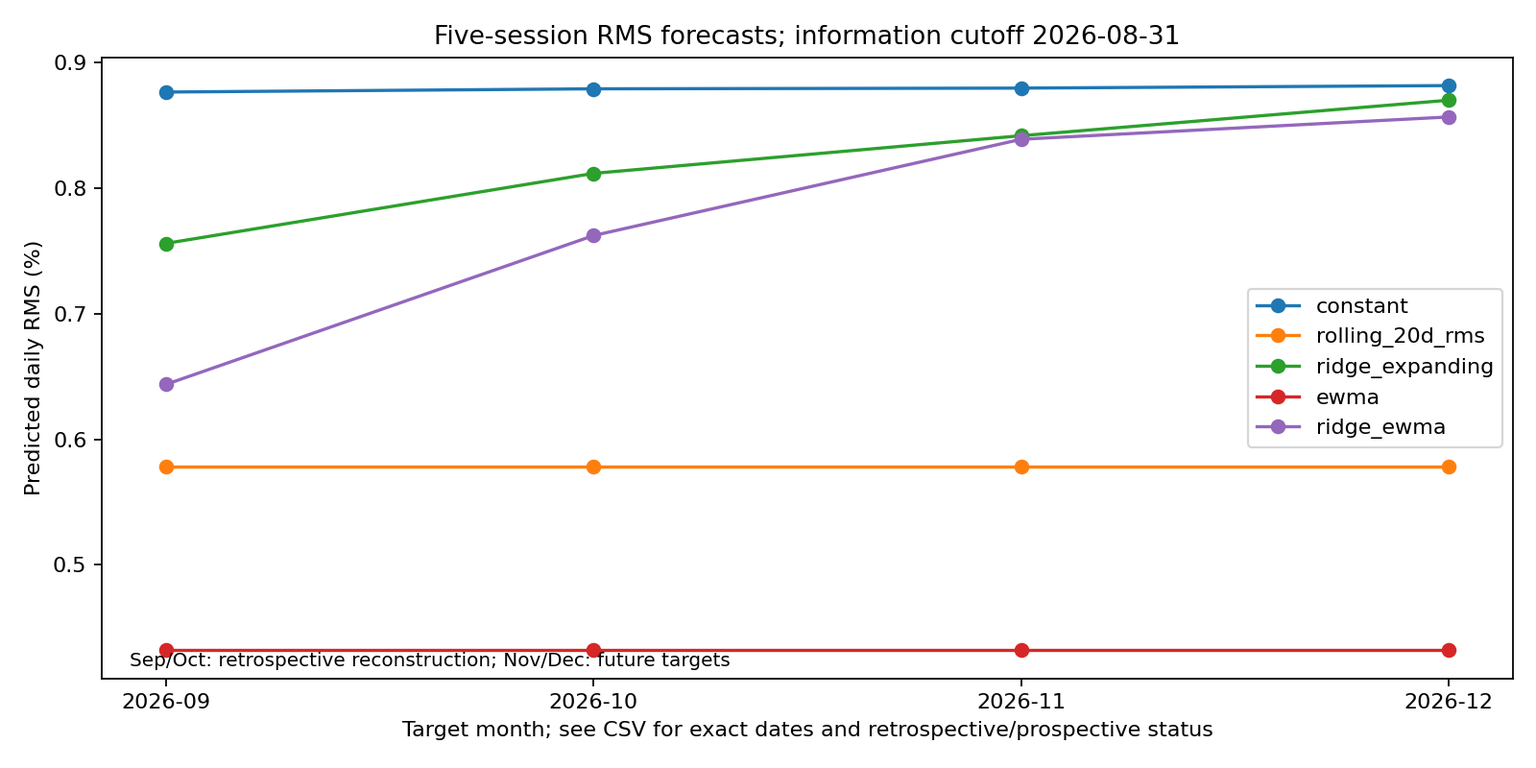
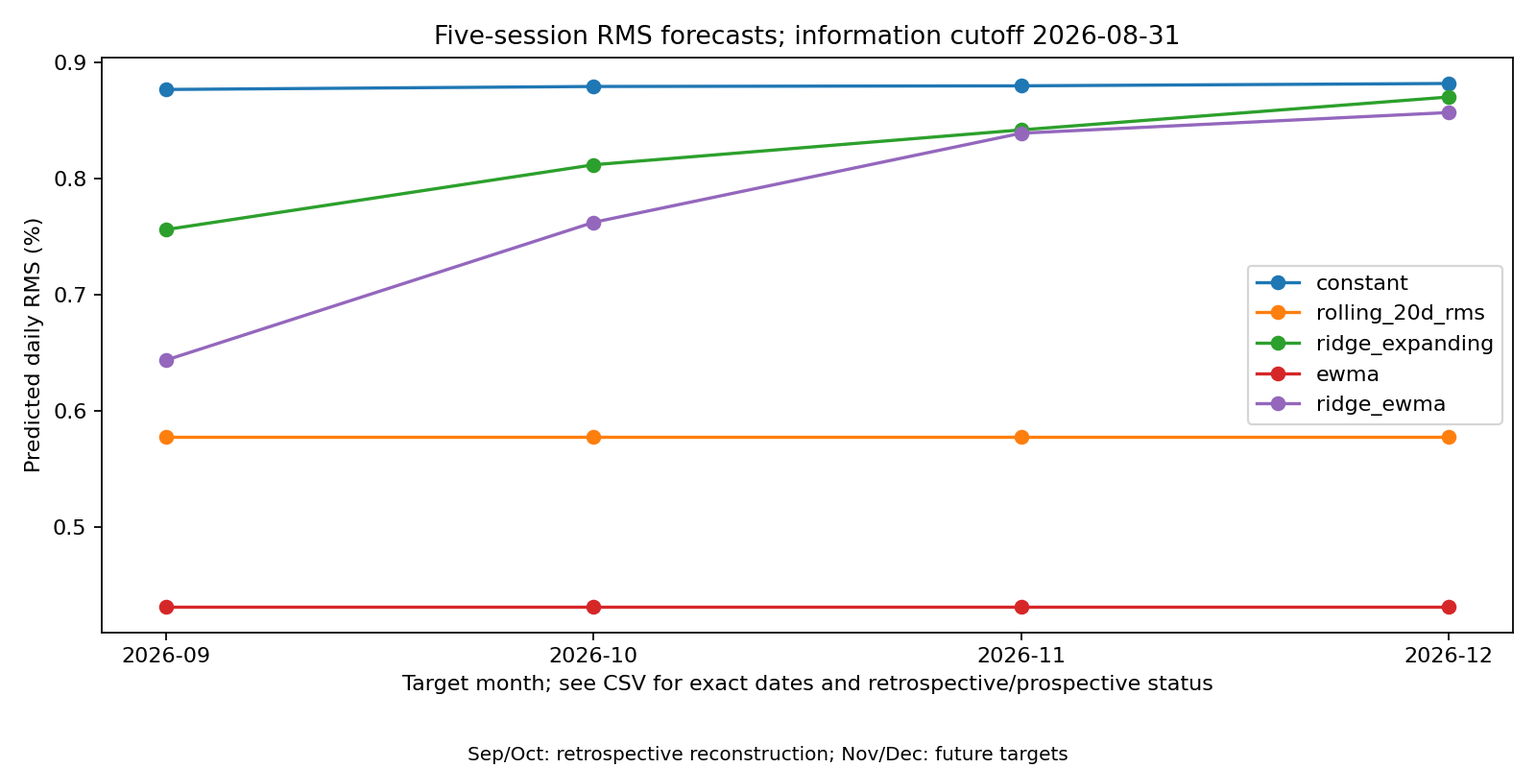
Documented the frozen EWMA results and reviewer-visible comparisons

diff --git a/src/summarize_ewma_freezes.py b/src/summarize_ewma_freezes.py
@@ -1,0 +1,65 @@
+"""Compare two saved cutoffs and score already-known windows retrospectively."""
+import argparse,json
+from pathlib import Path
+import numpy as np,pandas as pd
+import matplotlib
+matplotlib.use('Agg')
+import matplotlib.pyplot as plt
+from src.validate_cutoff import sha256_file
+
+METHODS=['constant','rolling_20d_rms','ridge_expanding','ewma','ridge_ewma']
+
+def summarize(august,october,prices_path,output):
+    if output.exists():raise FileExistsError('Choose a new summary directory.')
+    for folder in [august,october]:
+        manifest=json.loads((folder/'manifest.json').read_text())
+        for name,digest in manifest['output_sha256'].items():
+            if sha256_file(folder/name)!=digest:raise ValueError('Frozen output hash mismatch.')
+    prices=pd.read_csv(prices_path,parse_dates=['Date']).set_index('Date')
+    oct_manifest=json.loads((october/'manifest.json').read_text())
+    if sha256_file(prices_path)!=oct_manifest['input_sha256']:raise ValueError('Use the exact October snapshot.')
+    returns=np.log(prices.SPY/prices.SPY.shift(1)).dropna()
+    a=pd.read_csv(august/'forecasts.csv');o=pd.read_csv(october/'forecasts.csv')
+    rows=[]
+    for month,b in a.groupby('target_month'):
+        start,end=pd.Timestamp(b.target_start.iloc[0]),pd.Timestamp(b.target_end.iloc[0])
+        if end>returns.index[-1]:continue
+        window=returns.loc[start:end]
+        if len(window)!=5:raise ValueError('Incomplete observed target.')
+        actual=float(np.sqrt(np.mean(window**2)))
+        for row in b.itertuples():
+            rows.append({'target_month':month,'target_start':str(start.date()),'target_end':str(end.date()),
+                'method':row.method,'forecast_decimal':row.forecast_decimal,'actual_decimal':actual,
+                'error':row.forecast_decimal-actual,'absolute_error':abs(row.forecast_decimal-actual),
+                'status':'Retrospective: computed after outcomes were known; reconstructed input'})
+    known=pd.DataFrame(rows);output.mkdir(parents=True)
+    known.to_csv(output/'august_known_outcomes.csv',index=False,float_format='%.17g')
+    combined=pd.concat([a.assign(cutoff_label='August 31 reconstructed'),o.assign(cutoff_label='October 7')])
+    combined.to_csv(output/'cutoff_comparison.csv',index=False,float_format='%.17g')
+    fig,axes=plt.subplots(1,2,figsize=(13,5),sharey=True)
+    width=.15;x=np.arange(2)
+    for ax,month in zip(axes,['2026-11','2026-12']):
+        for i,method in enumerate(METHODS):
+            b=combined.loc[(combined.target_month==month)&(combined.method==method)]
+            ax.bar(x+(i-2)*width,100*b.forecast_decimal,width,label=method)
+        ax.set(xticks=x,xticklabels=['Aug 31 reconstructed','Oct 7 update'],title=month+' first five sessions',ylabel='Predicted daily RMS (%)')
+    handles,labels=axes[0].get_legend_handles_labels()
+    fig.legend(handles,labels,loc='lower center',ncol=5,fontsize=9)
+    fig.suptitle('Prospective November/December forecasts — same target, different information cutoffs')
+    fig.tight_layout(rect=(0,.07,1,1));fig.savefig(output/'future_cutoff_comparison.png',dpi=160);plt.close(fig)
+    fig,axes=plt.subplots(1,2,figsize=(12,5),sharey=True)
+    for ax,(month,b) in zip(axes,known.groupby('target_month')):
+        ax.bar(b.method,100*b.forecast_decimal)
+        ax.axhline(100*b.actual_decimal.iloc[0],color='black',linestyle='--',label='Observed five-session RMS')
+        ax.set(title=month,ylabel='Daily RMS (%)');ax.tick_params(axis='x',labelrotation=22);ax.legend(fontsize=8)
+    fig.suptitle('Retrospective August-cutoff reconstruction — September/October outcomes were already known')
+    fig.tight_layout();fig.savefig(output/'retrospective_known_outcomes.png',dpi=160);plt.close(fig)
+    (output/'manifest.json').write_text(json.dumps({'input_price_sha256':sha256_file(prices_path),
+        'august_manifest_sha256':sha256_file(august/'manifest.json'),'october_manifest_sha256':sha256_file(october/'manifest.json'),
+        'source_sha256':sha256_file(Path(__file__)),'output_sha256':{p.name:sha256_file(p) for p in output.iterdir()}},indent=2)+'\n')
+    print(known.to_string(index=False))
+
+if __name__=='__main__':
+    p=argparse.ArgumentParser(description=__doc__)
+    for name in ['august','october','prices','output']:p.add_argument('--'+name,type=Path,required=True)
+    a=p.parse_args();summarize(a.august,a.october,a.prices,a.output)

diff --git a/src/plot_ewma_experiment.py b/src/plot_ewma_experiment.py
@@ -28,8 +28,8 @@ def plot(folder):
         ax.plot(b.target_month,100*b.forecast_decimal,marker='o',label=method)
     ax.set(title=f"Five-session RMS forecasts; information cutoff {forecasts.information_cutoff.iloc[0]}",ylabel='Predicted daily RMS (%)',xlabel='Target month; see CSV for exact dates and retrospective/prospective status')
     if (forecasts.target_month<'2026-11').any():
-        ax.text(.02,.02,'Sep/Oct: retrospective reconstruction; Nov/Dec: future targets',transform=ax.transAxes,fontsize=9)
-    ax.legend();fig.tight_layout();fig.savefig(figures/'forecasts.png',dpi=160);plt.close(fig)
+        fig.text(.5,.01,'Sep/Oct: retrospective reconstruction; Nov/Dec: future targets',ha='center',fontsize=9)
+    ax.legend();fig.tight_layout(rect=(0,.06,1,1));fig.savefig(figures/'forecasts.png',dpi=160);plt.close(fig)
 
 if __name__=='__main__':
     parser=argparse.ArgumentParser(description=__doc__);parser.add_argument('folder',type=Path)

diff --git a/docs/ewma_freeze_2026-10-08.md b/docs/ewma_freeze_2026-10-08.md
@@ -1,0 +1,91 @@
+# My EWMA forecasts frozen on 8 October 2026
+
+I recovered access to Yahoo Finance and downloaded the complete adjusted-close history for all eight ETFs. I have now calculated the two EWMA experiments. I chose EWMA because it uses the return data already required by my RMS work. These results do not establish that EWMA is generally better.
+
+## What I froze
+
+| Item | August experiment | October update |
+|---|---|---|
+| Information cutoff | 31 August 2026 | 7 October 2026 |
+| Price history | 2,932 sessions from 2 January 2015 | 2,958 sessions from 2 January 2015 |
+| Dataset vintage | Downloaded 8 October; reconstructed | Downloaded 8 October |
+| Missing observations | None against XNYS session calendar | None against XNYS session calendar |
+| Standalone EWMA decay | 0.80 | 0.80 |
+| Ridge EWMA-feature decay | 0.90 | 0.90 |
+| Prospective targets | November 2–6; December 1–7 | November 2–6; December 1–7 |
+| Lead gaps before first target return | 43 and 63 sessions | 17 and 37 sessions |
+
+The August input hash differs from my original snapshot hash. I therefore call this an **August reconstruction**, not an exact recovery of the original dataset. A hash mismatch alone does not identify which prices, if any, changed. My original v0.1 forecast archive and its October evaluation are unchanged. Current adjusted-price history can contain later distribution adjustments or provider revisions, so historical validation is also subject to data-vintage limitations.
+
+All new EWMA calculations use Yahoo's adjusted-close field consistently. The earlier October baseline evaluation used Stock Analysis. I do not join that six-price snapshot onto the Yahoo history. Source fields, retrieval times, raw responses, session calendar and hashes are preserved in [the input snapshot](../data/raw/yahoo_2026-10-08/README.md).
+
+## Predictions
+
+These are predictions of **daily RMS across five log returns**, expressed as percentages. They are neither annualized volatility nor five-day cumulative return predictions.
+
+| Cutoff | Model | November 2–6 RMS | December 1–7 RMS |
+|---|---|---:|---:|
+| August 31 reconstructed | Constant | 0.8797% | 0.8817% |
+| August 31 reconstructed | Rolling 20-session RMS | 0.5780% | 0.5780% |
+| August 31 reconstructed | Original-feature Ridge | 0.8418% | 0.8701% |
+| August 31 reconstructed | Standalone EWMA | 0.4319% | 0.4319% |
+| August 31 reconstructed | Ridge + EWMA | 0.8389% | 0.8567% |
+| October 7 | Constant | 0.8766% | 0.8767% |
+| October 7 | Rolling 20-session RMS | 0.6398% | 0.6398% |
+| October 7 | Original-feature Ridge | 0.7879% | 0.8325% |
+| October 7 | Standalone EWMA | 0.5287% | 0.5287% |
+| October 7 | Ridge + EWMA | 0.7430% | 0.8169% |
+
+![Future forecasts at two information cutoffs](../results/ewma_2026-10-08/future_cutoff_comparison.png)
+
+Standalone EWMA forecasts are equal across months because I persist the cutoff second moment. The augmented Ridge forecasts differ because each target uses a separate gap-specific fit. Different values from different information cutoffs do not prove that one model improved.
+
+The complete numerical records, model coefficients and manifests are in [the August archive](../forecasts/2026-10-08-ewma-august-reconstructed/forecasts.csv) and [the October archive](../forecasts/2026-10-08-ewma-october/forecasts.csv). They were created today and published today, before the October 30 and November 30 anchoring closes. September and October calculations from the reconstructed August cutoff are retrospective; I do not backdate them as prospective forecasts.
+
+## Observations through October 7
+
+![Observed signals through October 7](../forecasts/2026-10-08-ewma-october/figures/signals.png)
+
+This graph plots signals computed from observations already available. The dashed August cutoff distinguishes the later observed extension. These are signal states, not a record of daily forecasts published in advance.
+
+![Retrospective reconstructed predictions and known outcomes](../results/ewma_2026-10-08/retrospective_known_outcomes.png)
+
+Using this Yahoo snapshot, September's first five-return RMS was approximately 0.6646%, and October's was 0.5263%. The augmented Ridge reconstruction was closest in September; rolling RMS was closest in October. These outcomes were known before this EWMA reconstruction was made. They are descriptive comparisons, not prospective evidence for the new EWMA model. Their exact values and errors are in [the retrospective score table](../results/ewma_2026-10-08/august_known_outcomes.csv).
+
+## Earlier validation and historical assessment
+
+I selected each decay using MAE on 24 five-session windows ending in 2021–2022, with expanding training using only labels completed at each origin. The selected standalone candidate had validation MAE 0.3104 percentage points; augmented Ridge had 0.2652 percentage points. September and October 2026 outcomes did not select the decay.
+
+For the separate development-aware historical assessment, all methods used the same 44 target windows ending January 2023–August 2026:
+
+| Model | MAE, percentage points | RMSE, percentage points |
+|---|---:|---:|
+| Constant | 0.3392 | 0.5255 |
+| Rolling 20-session RMS | 0.3578 | 0.6021 |
+| Original-feature Ridge | 0.3239 | 0.5279 |
+| Standalone EWMA | 0.3111 | 0.4964 |
+| Ridge + EWMA | 0.2979 | 0.4947 |
+
+![Matched historical MAE](../forecasts/2026-10-08-ewma-october/figures/historical_mae.png)
+
+Augmented Ridge had the smallest error in this historical assessment. I do not present that as an untouched test, statistical significance or a guarantee of future performance. The project had already studied this historical period. Decays selected at gap zero are transferred to the longer future lead times; those lead-time choices still need prospective evaluation.
+
+## Reproduction, mathematics and verification
+
+My [experiment protocol](ewma_experiment.md) gives the recurrence, explicit 20-return seed, targets, completed-label rule, Ridge objective, complexity, alternatives and references. Install `requirements-ewma.txt` before running. A new download is a different data vintage; for faithful reproduction use the committed CSVs:
+
+```bash
+python -m src.run_ewma_experiment --data data/raw/yahoo_2026-10-08/august_adjusted_close.csv --calendar data/raw/yahoo_2026-10-08/nyse_sessions.csv --provenance data/raw/yahoo_2026-10-08/august_provenance.json --cutoff 2026-08-31 --output forecasts/reproduced-ewma-august
+python -m src.run_ewma_experiment --data data/raw/yahoo_2026-10-08/october_adjusted_close.csv --calendar data/raw/yahoo_2026-10-08/nyse_sessions.csv --provenance data/raw/yahoo_2026-10-08/october_provenance.json --cutoff 2026-10-07 --output forecasts/reproduced-ewma-october
+python -m src.plot_ewma_experiment forecasts/reproduced-ewma-august
+python -m src.plot_ewma_experiment forecasts/reproduced-ewma-october
+python -m src.summarize_ewma_freezes --august forecasts/reproduced-ewma-august --october forecasts/reproduced-ewma-october --prices data/raw/yahoo_2026-10-08/october_adjusted_close.csv --output results/reproduced-ewma-summary
+```
+
+The original-August-match flag is intentionally omitted because these reconstructed bytes do not match the original snapshot. A reproduction made later has a later creation time and may correctly be labeled retrospective by the code. It does not replace today's published forecast evidence.
+
+All 21 unit tests passed. Real-data checks verified full calendar agreement, input/output hashes, nonnegative finite forecasts, completed training-label boundaries, identical pre-2023 selection scores across cutoffs and the selected minima. The [check record](../results/ewma_2026-10-08/freeze_checks.json) also fingerprints the plots. The manifests retain exact numeric forecasts, feature values, fitted parameters, versions and source hashes.
+
+## What happens next
+
+I keep these predictions unchanged. After all five target sessions have completed, I download a documented consistent-source adjusted-price series, calculate the actual log-return RMS and report signed error, absolute error and the matched model comparison. I record provider revisions or source discrepancies rather than changing the original forecast. November needs the October 30 anchoring price plus November 2, 3, 4, 5 and 6; December needs November 30 plus December 1, 2, 3, 4 and 7. Future actual outcomes are not yet available.

diff --git a/docs/ewma_experiment.md b/docs/ewma_experiment.md
@@ -2,9 +2,9 @@
 
 I chose EWMA because I can compute it from the adjusted-price return history already required by my RMS experiment. I am not claiming that it will outperform the other methods. I compare a standalone EWMA forecast and an EWMA feature added to my existing Ridge model against constant, rolling 20-session RMS and three-feature Ridge baselines.
 
-**Current status:** the recurrence and experiment runner are implemented and tested. The original historical adjusted-price CSV is unavailable in this workspace and repository; Yahoo requests returned HTTP 429. I have not selected a decay, computed market forecasts, or frozen numerical EWMA results. Synthetic test fixtures verify code only. My previous RMS forecasts and October evaluation remain separate and unchanged.
+**Current status, updated 8 October 2026:** Yahoo access was recovered after the initial HTTP 429 failures. I downloaded and validated all eight ETF series and calculated both cutoff experiments. The August file is a reconstructed current-vintage snapshot, not the recovered original bytes. Selected decays, forecasts, historical scores and graphs are now published in [the freeze report](ewma_freeze_2026-10-08.md). The original RMS archive remains unchanged.
 
-The original August baseline used Yahoo Finance adjusted-close data. The completed October baseline evaluation used the saved Stock Analysis adjusted-price snapshot because Yahoo access was blocked. These are distinct records. I must recover the original Yahoo history for an identical August replication, and use a documented consistent full adjusted-price series for the October EWMA update; I will not silently splice the six-price snapshot into the history.
+The original August baseline used Yahoo Finance adjusted-close data. The completed October baseline evaluation used the saved Stock Analysis adjusted-price snapshot because Yahoo access was blocked. These are distinct records. Both new EWMA runs use the complete Yahoo adjusted-close snapshot downloaded on 8 October; I did not splice the six-price Stock Analysis snapshot into that history. The new August bytes differ from the original input hash and are explicitly labeled reconstructed.
 
 ![Candidate weighting kernels and half-lives; mathematical illustration only](../results/figures/ewma_weights.png)
 
@@ -69,7 +69,7 @@ For N sessions and A assets, return computation costs O(NA). Each EWMA stream co
 
 ## Reproducible input and run instructions
 
-Install numpy, pandas, scikit-learn and matplotlib. Run from the repository root with Python 3.10 or newer. Prices must be CSV with Date and the eight ticker columns. Provide separate immutable files ending exactly at each cutoff. The calendar CSV has a Date column containing the complete actual exchange-session schedule covering the entire input history and through 7 December 2026. Do not substitute unverified Monday–Friday dates.
+Install the pinned packages in requirements-ewma.txt; exchange-calendars is also needed to reproduce input assembly. Run from the repository root with Python 3.10 or newer. Prices must be CSV with Date and the eight ticker columns. Provide separate immutable files ending exactly at each cutoff. The calendar CSV has a Date column containing the complete actual exchange-session schedule covering the entire input history and through 7 December 2026. Do not substitute unverified Monday–Friday dates.
 
 For each input create a provenance JSON with price_source, price_column, retrieved_at_utc, input_sha256 and calendar_source. Record the actual provider and adjusted-price field; do not describe raw Close as Adjusted Close. Obtain the file hash with `sha256sum`. This records provenance supplied by the researcher; the code cannot certify the provider's adjustments.
 
@@ -85,7 +85,7 @@ The original-August flag requires the original frozen snapshot hash. If that fil
 
 ## Figures and limits
 
-The plotting code generates observed signal curves, historical MAE bars and future-window forecast graphs separately for each cutoff. Forecast markers are five-session summaries, not a daily path; connecting lines guide the eye only. Future actuals are not drawn. Exact dates, units, lead times and retrospective/prospective labels are in forecasts.csv. No market forecast chart is published until real inputs pass validation.
+The plotting code generates observed signal curves, historical MAE bars and future-window forecast graphs separately for each cutoff. Forecast markers are five-session summaries, not a daily path; connecting lines guide the eye only. Future actuals are not drawn. Exact dates, units, lead times and retrospective/prospective labels are in forecasts.csv. Real inputs passed validation and the market forecast charts are published in the freeze report.
 
 EWMA cannot establish which ETF will outperform, predict return direction, guarantee smaller future errors, measure causal relationships or provide calibrated tail-loss probabilities. I forecast SPY RMS only. Two cutoffs cannot establish a robust model ranking, and historical errors do not supply calibrated prediction intervals. For future scoring I retain the prediction unchanged and evaluate against consistent-source adjusted-price returns after all five target sessions have completed.
 
@@ -101,4 +101,4 @@ See [the methods review](signal_processing_methods_review.md) for alternatives a
 
 ## Verification on 8 October 2026
 
-All 21 repository unit tests passed. A temporary synthetic integration fixture also exercised decay selection, historical assessment, forecast export, manifest hash checks, all three plot outputs and overwrite refusal. The fixture was removed and no synthetic market results were published. Real-data reproduction remains pending.
+All 21 repository unit tests passed. A temporary synthetic integration fixture also exercised decay selection, historical assessment, forecast export, manifest hash checks, all three plot outputs and overwrite refusal. The fixture was removed and no synthetic market results were published. Real-data checks have now also passed: complete calendar agreement, saved input/output hashes, completed-label boundaries, parameter minima and identical selection scores across cutoffs. The results and check record are linked in the freeze report.

diff --git a/README.md b/README.md
@@ -6,7 +6,13 @@ The purpose is not to claim that markets are reliably predictable. The purpose i
 
 ## Status on 8 October 2026
 
-I have implemented the causal EWMA signal and the separate August 31 / October 7 comparison and freeze pipeline. **Numerical EWMA forecasts remain pending the complete adjusted-price history; no decay has been selected and no forecast values have been frozen.** My [EWMA experiment document](docs/ewma_experiment.md) gives the mathematics, validation rule, algorithm complexity, input requirements, run commands and limitations. The original RMS archive is unchanged.
+I have now calculated and published separate EWMA freezes using Yahoo adjusted-close history through **August 31** and **October 7**. The August dataset is explicitly a reconstruction: its bytes do not match the original input hash. The original v0.1 forecasts remain unchanged. My [EWMA freeze report](docs/ewma_freeze_2026-10-08.md) contains the exact target dates, forecasts, historical scores, graphs, source provenance and reproduction commands.
+
+Using the October 7 cutoff, standalone EWMA predicts **0.5287% daily RMS** for both November 2–6 and December 1–7. Ridge with an EWMA feature predicts **0.7430%** and **0.8169%**, respectively. These are prospective five-session risk forecasts, not return-direction predictions or guarantees.
+
+![November and December predictions at two cutoffs](results/ewma_2026-10-08/future_cutoff_comparison.png)
+
+![Observed signals through October 7](forecasts/2026-10-08-ewma-october/figures/signals.png)
 
 ![EWMA candidate weights and half-lives: mathematical illustration only](results/figures/ewma_weights.png)
 
@@ -23,7 +29,7 @@ My [dated Yahoo access and comparison note](docs/october_2026_baseline_evaluatio
 
 I keep the [October 7 partial-window note](docs/evaluation_status_2026-10-07.md) as a dated record of what was available then. I have not changed the frozen forecast archive or August training data. November and December outcomes remain pending.
 
-The signal-processing extension now has a [tested implementation and fixed experiment protocol](docs/ewma_experiment.md). Fitting and numerical forecasts remain pending complete historical inputs. It will be evaluated separately from v0.1.
+The signal-processing extension has a [tested implementation and fixed experiment protocol](docs/ewma_experiment.md), with [published numerical forecasts](docs/ewma_freeze_2026-10-08.md). It is evaluated separately from v0.1; reconstructed September/October comparisons are explicitly retrospective.
 
 
 
@@ -64,7 +70,7 @@ I will begin with market series already motivated by the first project, includin
 
 ### 2. Forecasting target
 
-I forecast the RMS of daily SPY log returns over the first five scheduled trading sessions of September, October, November, and December 2026. All predictions use information through August 31. September is retrospective; October onward is prospective only when I publish the forecast before its window begins. These are five-day windows, not whole-month forecasts. I define the gaps, target dates, and training eligibility in [my forecast specification](docs/forecast_freeze_v0_1.md).
+I forecast the RMS of daily SPY log returns over the first five scheduled trading sessions of September, October, November, and December 2026. These original v0.1 predictions use information through August 31. September is retrospective; October onward is prospective only when I publish the forecast before its target anchoring close. These are five-day windows, not whole-month forecasts. I define the gaps, target dates, and training eligibility in [my forecast specification](docs/forecast_freeze_v0_1.md).
 
 ### 3. Baselines
 
@@ -86,7 +92,7 @@ The project is designed to make the mathematics visible. The documentation will 
 
 ### v0.1 — Prospective baseline
 
-I have implemented and run the baseline forecasting pipeline. My [forecast record](forecasts/2026-09-30-v0.1/forecasts.csv), [input and source fingerprints](forecasts/2026-09-30-v0.1/manifest.json), [fitted models](forecasts/2026-09-30-v0.1/models.json), and [historical diagnostic scores](forecasts/2026-09-30-v0.1/historical_metrics.csv) are preserved together. The EWMA implementation is available; fitting and numerical forecast publication remain pending validated data. Reproduction commands and limitations are in [the release specification](docs/forecast_freeze_v0_1.md).
+I have implemented and run the baseline forecasting pipeline. My [forecast record](forecasts/2026-09-30-v0.1/forecasts.csv), [input and source fingerprints](forecasts/2026-09-30-v0.1/manifest.json), [fitted models](forecasts/2026-09-30-v0.1/models.json), and [historical diagnostic scores](forecasts/2026-09-30-v0.1/historical_metrics.csv) are preserved together. The EWMA implementation and the two new numerical forecast freezes are available in the [release report](docs/ewma_freeze_2026-10-08.md). Reproduction commands and limitations are in [the release specification](docs/forecast_freeze_v0_1.md).
 
 ### v1.0 — Signal processing & prospective forecasting
 

diff --git a/docs/research_protocol.md b/docs/research_protocol.md
@@ -165,3 +165,12 @@ I may extend this protocol later as the project develops. If I make a change tha
 I have recorded a separate EWMA signal-processing plan and a partial-October status note. This addendum records a decision made now; it does not revise the original August-cutoff v0.1 forecast specification. The new plan is in [signal_processing_plan.md](signal_processing_plan.md), including candidate parameters, chronological validation, initialization, future-data checks and freeze requirements. The existing forecast files remain the baseline record.
 
 As of the 6 October close, four of the five October target returns are available. A method created now for the October 1–7 window is a partially observed-window experiment, not a fully prospective five-return forecast. An earlier input cutoff does not change its actual creation date. I preserve the original October forecast and evaluate it only after the final return becomes available. Future signal-based forecasts receive their own version, cutoff, publication record and evaluation windows.
+
+
+## EWMA execution record — 8 October 2026
+
+I have now executed the separately documented EWMA protocol using a new complete Yahoo adjusted-close snapshot. The August-cutoff file is a reconstruction because it does not match the original input hash. The October-cutoff file ends exactly on 7 October. No raw Close values or six-price Stock Analysis patch were substituted into the new return history.
+
+The [EWMA release report](ewma_freeze_2026-10-08.md) links both numerical freezes, matched historical scores, figures and reproducible commands. Standalone decay 0.80 and Ridge-feature decay 0.90 were selected using only the predeclared 2021–2022 target endpoints; both cutoffs use identical selection scores. Later historical assessment is development-aware. September/October reconstructed comparisons are retrospective. The November and December freezes were published before their anchoring closes, with the GitHub commit recorded as external evidence.
+
+I preserve the original v0.1 archive unchanged and score each new freeze without changing its predictions after observing outcomes. Current adjusted-price history has data-vintage limitations; different cutoffs do not isolate a model effect. Exact equations, initialization, eligibility and complexity are in [the implementation protocol](ewma_experiment.md).

diff --git a/docs/references.md b/docs/references.md
@@ -42,3 +42,10 @@ These source links support the archived price snapshot, not future performance c
 ## Method review recorded 8 October 2026
 
 The [signal-method review](signal_processing_methods_review.md#references-and-status) lists primary NIST, pandas, SciPy, PyWavelets, statsmodels and arch documentation alongside the formulations and requirements. Reviewed methods are distinguished from implemented experiments.
+
+
+## EWMA snapshot and session calendar — 8 October 2026
+
+- Yahoo Finance chart responses: `https://query1.finance.yahoo.com/v8/finance/chart/{ticker}`. I used `indicators.adjclose[0].adjclose`, daily interval, 2015-01-01 inclusive to 2026-10-08 exclusive. Exact responses and provenance are in [the saved snapshot](../data/raw/yahoo_2026-10-08/README.md); this endpoint is a provider data response, not a guaranteed stable API contract.
+- [exchange_calendars](https://github.com/gerrymanoim/exchange_calendars), version 4.13.2, XNYS calendar. This is a community-maintained calendar package, not the exchange itself.
+- [NYSE hours and calendars](https://www.nyse.com/trade/hours-calendars): official 2026 holidays checked against the saved schedule.

diff --git a/docs/signal_processing_plan.md b/docs/signal_processing_plan.md
@@ -4,7 +4,7 @@ Planning record: 7 October 2026, before the US regular session for that date. Th
 
 ## Implementation update: 8 October 2026
 
-The causal recurrence and cutoff-specific experiment runner are now implemented and tested. Numerical fitting and forecast publication remain blocked by the missing complete adjusted-price history. The [fixed experiment protocol](ewma_experiment.md) documents the implemented seed, decay grid, validation rule, two cutoffs, algorithm complexity and commands. This original planning record is retained as dated context.
+The causal recurrence and cutoff-specific experiment runner are implemented and tested. Yahoo access was recovered on 8 October; fitting is complete and the two numerical forecasts are published. See [the freeze report](ewma_freeze_2026-10-08.md). The August dataset is a reconstruction, and September/October comparisons are retrospective. The [fixed experiment protocol](ewma_experiment.md) documents the implemented seed, decay grid, validation rule, two cutoffs, algorithm complexity and commands. This original planning record is retained as dated context.
 
 ## What I want to find out
 
